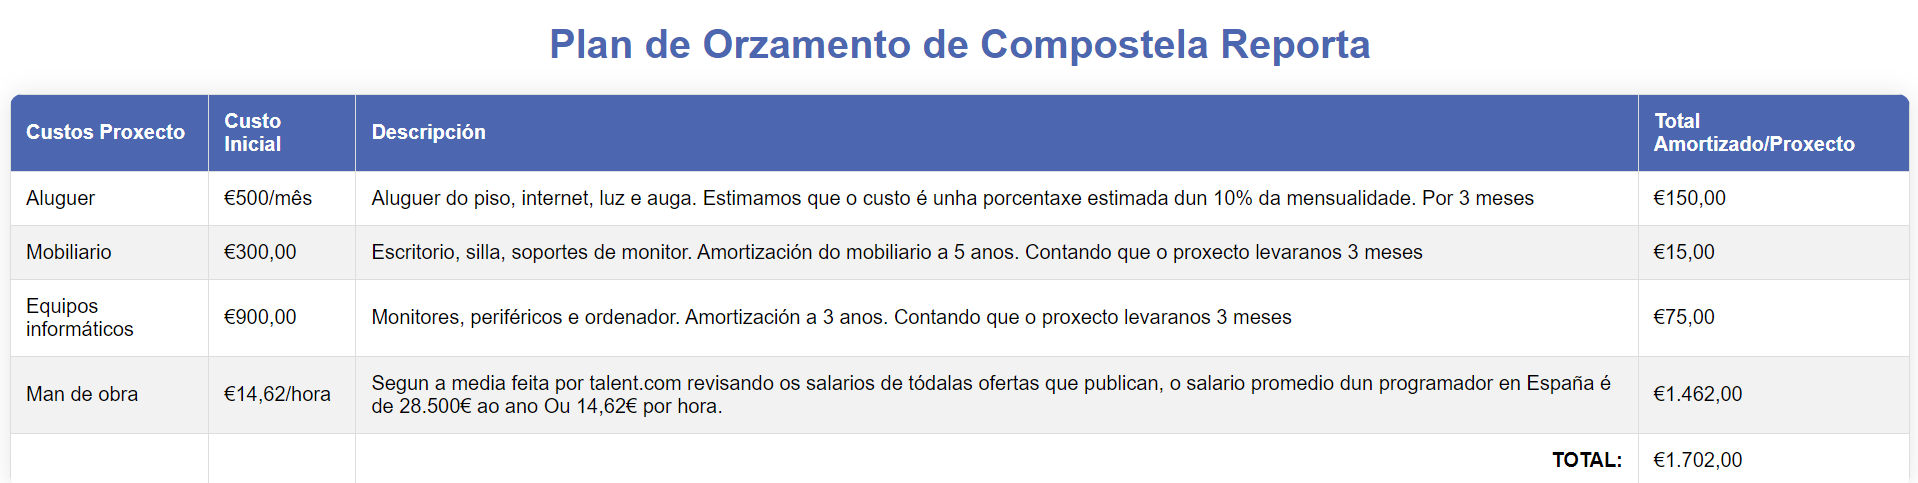
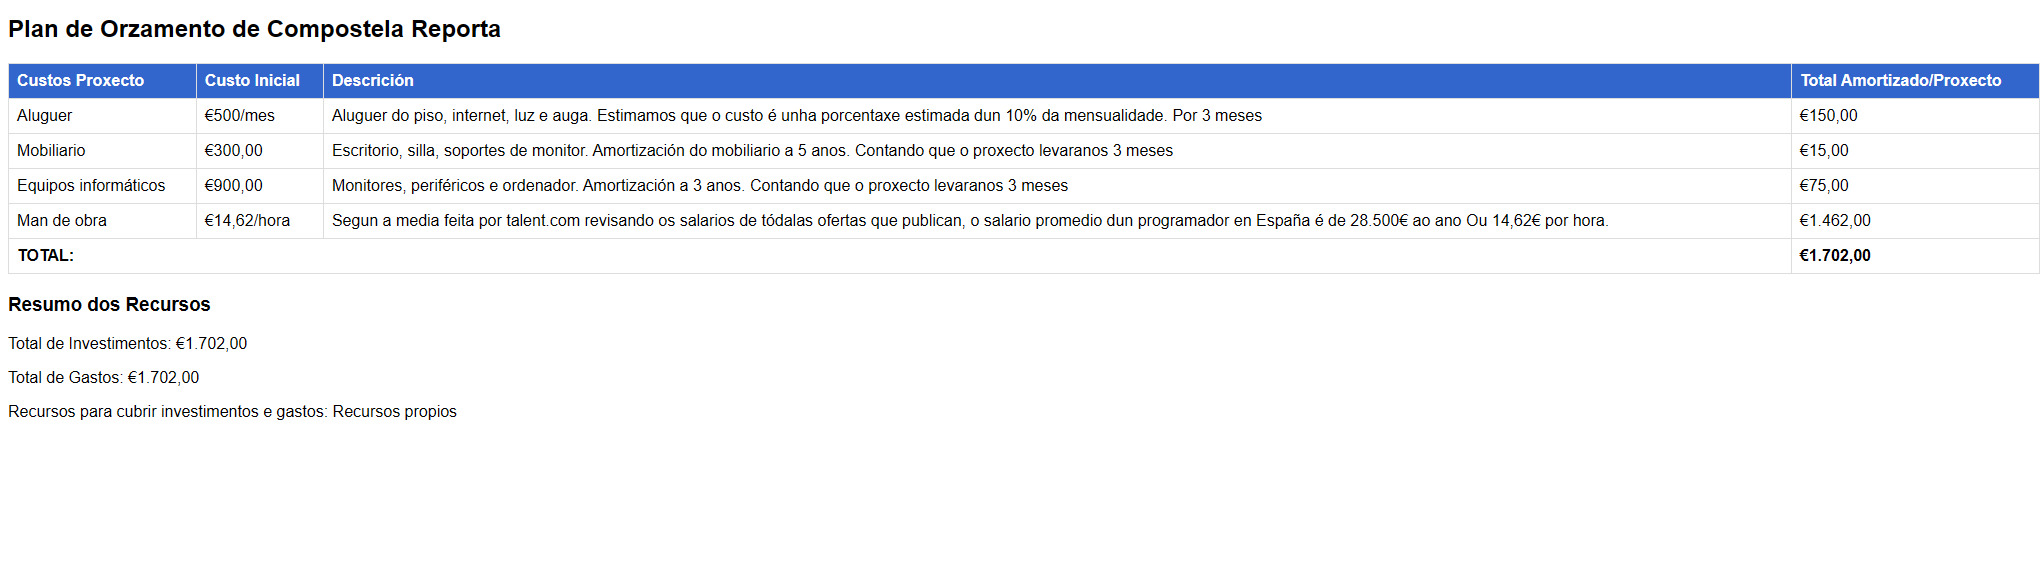
Orzamento actualizado

diff --git a/doc/img/planificacionEOrzamento/PlanOrzamento.html b/doc/img/planificacionEOrzamento/PlanOrzamento.html
@@ -1,0 +1,94 @@
+<!DOCTYPE html>
+<html lang="es">
+  <head>
+    <meta charset="UTF-8" />
+    <meta name="viewport" content="width=device-width, initial-scale=1.0" />
+    <title>Plan de Orzamento</title>
+    <style>
+      body {
+        font-family: Arial, sans-serif;
+      }
+      table {
+        width: 100%;
+        border-collapse: collapse;
+        margin-bottom: 20px;
+      }
+      th,
+      td {
+        border: 1px solid #dddddd;
+        text-align: left;
+        padding: 8px;
+      }
+      th {
+        background-color: #3366cc;
+        color: white;
+      }
+      .total {
+        font-weight: bold;
+      }
+    </style>
+  </head>
+  <body>
+    <h2>Plan de Orzamento de Compostela Reporta</h2>
+    <table>
+      <thead>
+        <tr>
+          <th>Custos Proxecto</th>
+          <th>Custo Inicial</th>
+          <th>Descrición</th>
+          <th>Total Amortizado/Proxecto</th>
+        </tr>
+      </thead>
+      <tbody>
+        <tr>
+          <td>Aluguer</td>
+          <td>€500/mes</td>
+          <td>
+            Aluguer do piso, internet, luz e auga. Estimamos que o custo é unha
+            porcentaxe estimada dun 10% da mensualidade. Por 3 meses
+          </td>
+          <td>€150,00</td>
+        </tr>
+        <tr>
+          <td>Mobiliario</td>
+          <td>€300,00</td>
+          <td>
+            Escritorio, silla, soportes de monitor. Amortización do mobiliario a
+            5 anos. Contando que o proxecto levaranos 3 meses
+          </td>
+          <td>€15,00</td>
+        </tr>
+        <tr>
+          <td>Equipos informáticos</td>
+          <td>€900,00</td>
+          <td>
+            Monitores, periféricos e ordenador. Amortización a 3 anos. Contando
+            que o proxecto levaranos 3 meses
+          </td>
+          <td>€75,00</td>
+        </tr>
+        <tr>
+          <td>Man de obra</td>
+          <td>€14,62/hora</td>
+          <td>
+            Segun a media feita por talent.com revisando os salarios de tódalas
+            ofertas que publican, o salario promedio dun programador en España é
+            de 28.500€ ao ano Ou 14,62€ por hora.
+          </td>
+          <td>€1.462,00</td>
+        </tr>
+      </tbody>
+      <tfoot>
+        <tr class="total">
+          <td colspan="3">TOTAL:</td>
+          <td>€1.702,00</td>
+        </tr>
+      </tfoot>
+    </table>
+
+    <h3>Resumo dos Recursos</h3>
+    <p>Total de Investimentos: €1.702,00</p>
+    <p>Total de Gastos: €1.702,00</p>
+    <p>Recursos para cubrir investimentos e gastos: Recursos propios</p>
+  </body>
+</html>
